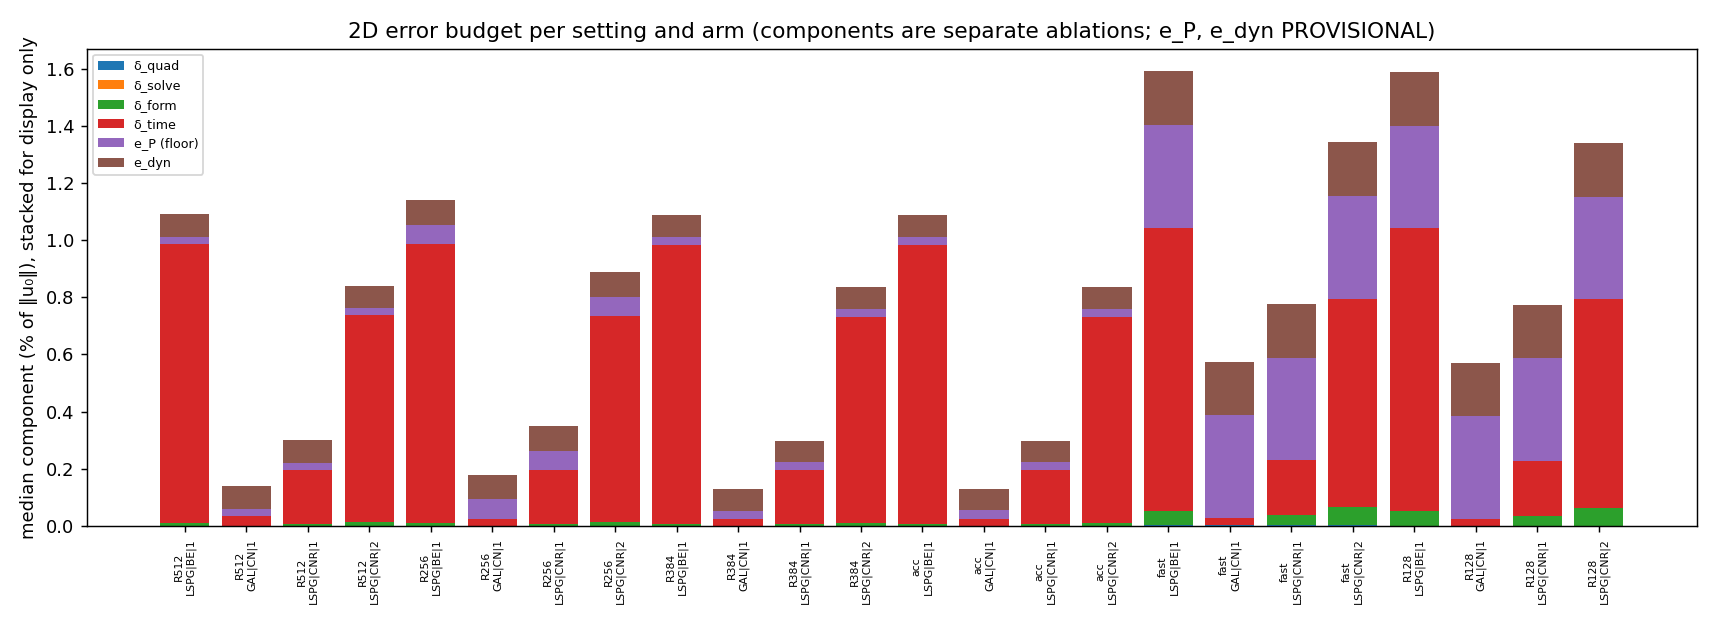
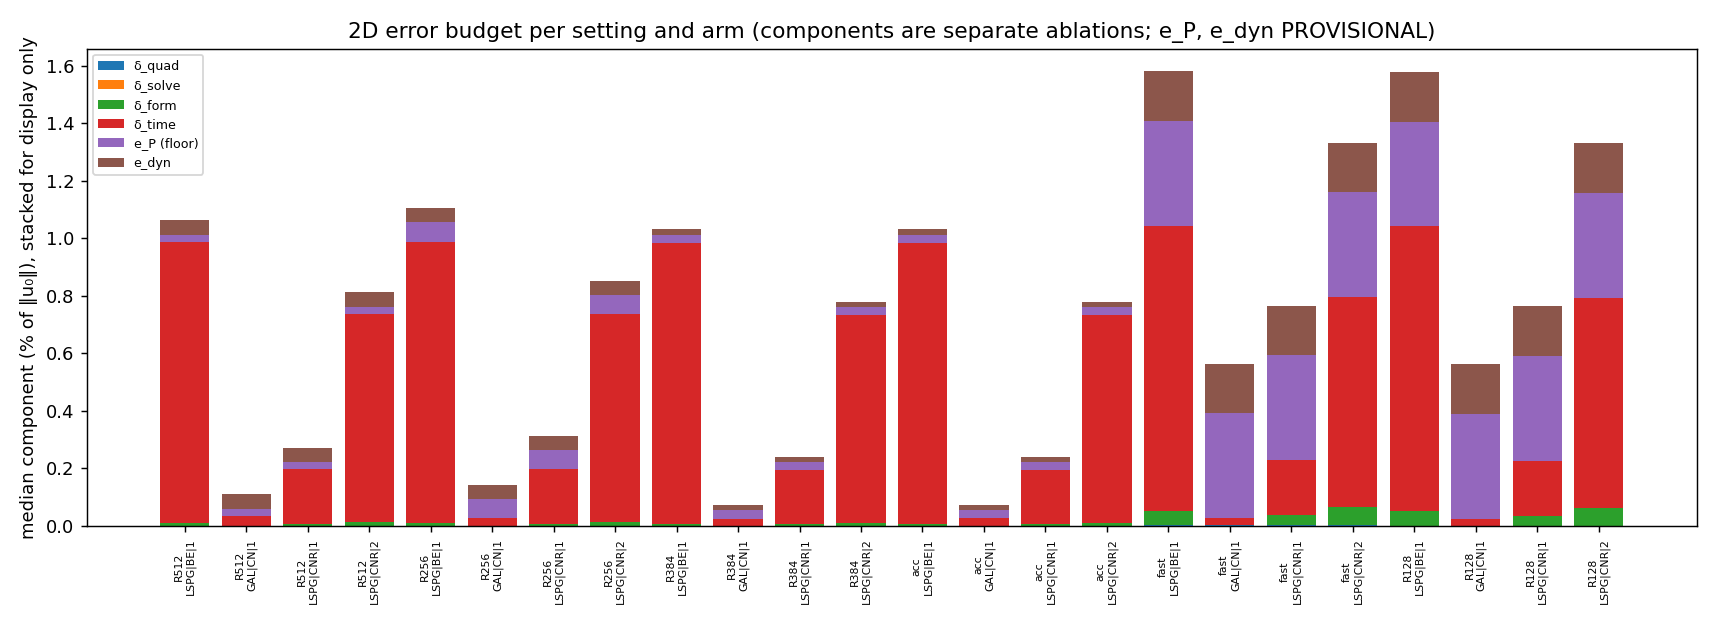
mirror of 8eccb56ff: jcp-combined: report: generated summary, H3 worst-case budget, fallback table, 3D diagnostics

diff --git a/experiments/jcp-combined/make_report.py b/experiments/jcp-combined/make_report.py
@@ -256,6 +256,7 @@ def main():
       'the pre-registered selection was unavailable. Lane `exp/2026-10-13-jcp-combined`, generated by `make_report.py` '
       'from the committed analysis files.', '')
 
+    SUMMARY_AT = len(r.lines)                        # the generated summary is inserted here at the end
     # ------------------------------------------------------------------------------------------------ pipeline
     r('## How the work was done', '',
       '```mermaid', 'flowchart TB',
@@ -577,6 +578,26 @@ def main():
             r('Withheld attributions (non-discriminating control): ' + '; '.join(f'{k}: {v}' for k, v in wh.items()) + '.', '')
         plot_budget(st2, 'budget2d.png', '2D', 'e_P_ST', 'e_dyn_ST')
         r('![2D budget](plots/budget2d.png)', '')
+        # H3 follow-up: the budget of the worst case named by H3, in the fast setting (A1.9: the budget names what dominates)
+        if an is not None and 'fast' in st2:
+            wc = an['hypotheses']['H3']['ST']['worst_case']
+            tg = 'ST'
+            rows = []
+            for ak, A in st2['fast']['arms'].items():
+                pcs = [x for x in A['per_case'] if x['case'] == wc]
+                if not pcs:
+                    continue
+                x = pcs[0]
+                mx = lambda k: (max(v for v in x[k][1:] if v is not None) if isinstance(x.get(k), list) and any(v is not None for v in x[k][1:]) else None)
+                rows.append([armname(ak.replace('|1', '|0.005').replace('|2', '|0.01')) if ak.count('|') == 2 else ak,
+                             pc(mx(f'e_tot_{tg}')), pc(mx(f'e_star_{tg}')), pc(mx(f'e_P_{tg}')), pc(mx(f'e_dyn_{tg}')),
+                             pc(mx('delta_time')), pc(mx('delta_form')), pc(mx('delta_quad'))])
+            if rows:
+                r(f"**The H3 worst case ({wc}, `fast` setting) through the budget** (max over output times; e_tot, e_⋆, e_P, e_dyn "
+                  f"against {'E0 R_ST' if e0b else 'ST (PROVISIONAL)'}): e_⋆ is the error of the ideal model (converged rule, GAL, "
+                  'BDF2 at Δt₀/8, tight), e_P the bank\'s projection floor, e_dyn the ideal model\'s distance to the projected '
+                  'reference.', '')
+                r.table(['arm', 'e_tot', 'e_⋆ (ideal)', 'e_P (floor)', 'e_dyn', 'δ_time', 'δ_form', 'δ_quad'], rows)
     else:
         r('2D budget pending (`c2budA/B/C`).', '')
     fb2 = load(CK / 'fallback2d.json')
@@ -673,6 +694,60 @@ def main():
       '- **dev6, val32, 923801**: development and validation cohorts (selection allowed); test64 / 923901 are replication-only '
       'and were not used.',
       '- **pp, % of ‖u₀‖**: errors are reported relative to the initial-condition norm.', '')
+    # ------------------------------------------------------------------------------------------------ summary
+    S = []
+    if an is not None:
+        H = an['hypotheses']
+        ref = 'E0 R_ST' if an['refs'] == '2d_e0' else 'first-order TX (PROVISIONAL)'
+        g = an_old['selection']['global']['scheme']
+        S.append(f"- **2D scheme.** {g} (selected against the first-order references, frozen). Against {ref}: "
+                 + '; '.join(f"H1 {k} **{v['verdict']}**" for k, v in H['H1'].items())
+                 + f"; H2 (tunability) **{'pass' if H['H2']['a_pass'] and H['H2']['b'] is True else 'fail'}**; H3 at "
+                 f"{H['H3']['ST']['worst_case']}: **{H['H3']['ST']['primary']['verdict']}**; H5 best matched speed-up "
+                 f"{fx(H['H5']['ST']['best_combined'][0])}× vs re-measured C2 `acc` {fx(H['H5']['ST']['best_comparator'][0])}× "
+                 f"(**{H['H5']['ST']['verdict']}**).")
+    if fb2:
+        fails = [s_ for s_ in fb2['settings']]
+        qual = [f"{s_} ({k.replace('_', ' ')} arm → {e['fallback_rule']})" for s_, e in fb2['settings'].items()
+                for k, a in e['arms'].items() if a['qualified']]
+        notq = [f"{s_} ({k.replace('_', ' ')} arm: cost {fx(a['criterion'].get('value'))}× the deployed BE)" if
+                k == 'accurate_equal_cost' else f"{s_} ({k.replace('_', ' ')} arm)"
+                for s_, e in fb2['settings'].items() for k, a in e['arms'].items() if not a['qualified']]
+        S.append(f"- **2D finalist quadrature check.** The selected CN-R arms fail it (δ_quad > τ) at {', '.join(fails)}; "
+                 f"first fallbacks qualified: {', '.join(qual) or 'none'}; not qualified: {', '.join(notq) or 'none'}.")
+    if esc_rows:
+        w = esc_rows.get('W1024', {})
+        over = {s_: max((x['n_over'] for x in v.values()), default=0) for s_, v in esc_rows.items()}
+        S.append('- **3D converged-rule gate (J4).** Cases above the bar at any successive pair (fixed-sweep BE): '
+                 + ', '.join(f'{k} {v}' for k, v in over.items()) + '; worst case at every pair: case '
+                 + ', '.join(sorted({str(x['argmax']) for v in esc_rows.values() for x in v.values()}))
+                 + (('. POST HOC converged rules: ' + ', '.join(f"{k} {v.get('posthoc_converged')}" for k, v in sel_ph['settings'].items()))
+                    if sel_ph else '') + '.')
+    if cnf:
+        S.append('- **3D fixed-sweep CN (K = 2, 2.5 Δt₀)** departs from the verified adaptive solve on a fixed set of cases '
+                 '(the same at every rule), so the pre-registered rule selection was unavailable; the POST HOC selection uses '
+                 'the adaptive CN arm.')
+    if an3 is not None:
+        h4 = an3['hypotheses']['H4']
+        S.append('- **3D fast solver (H4).** H4a (speed at equal accuracy, ratio ≤ 0.6): '
+                 + ', '.join(f"{k} {v.get('H4a', {}).get('verdict', v.get('verdict'))}" for k, v in h4.items())
+                 + '; H4b (accuracy at equal cost): '
+                 + ', '.join(f"{k} {v.get('H4b', {}).get('verdict', '—')}" for k, v in h4.items())
+                 + ('. Read together: the second-order fixed-sweep solver buys accuracy at equal cost, not speed at equal '
+                    'accuracy.' if all(v.get('H4a', {}).get('verdict') == 'fail' and v.get('H4b', {}).get('verdict') == 'pass'
+                                       for v in h4.values()) else '.'))
+    if b2:
+        cnt = {}
+        for b in b2:
+            for s_, S_ in b['settings'].items():
+                for ak, A in S_['arms'].items():
+                    lg = (A.get('largest') or {}).get('ST', {})
+                    if lg:
+                        top = max(lg.items(), key=lambda kv: kv[1])[0]
+                        cnt[top] = cnt.get(top, 0) + 1
+        S.append('- **2D budget: what limits next** (largest component per setting-arm, by number of setting-arms): '
+                 + ', '.join(f'{k} {v}' for k, v in sorted(cnt.items(), key=lambda kv: -kv[1])) + '.')
+    r.lines[SUMMARY_AT:SUMMARY_AT] = ['## Answers in brief (generated)', ''] + S + ['']
     (HERE / 'report.md').write_text('\n'.join(r.lines) + '\n')
     print(HERE / 'report.md', 'pending:', pending)
 

diff --git a/experiments/jcp-combined/report.md b/experiments/jcp-combined/report.md
@@ -1,6 +1,15 @@
 # jcp-combined: second-order stepping with a wide bank and a fast fixed-sweep solver, with an error budget
 
-**Status:** interim; pending: grid3d, bud3d. Every accuracy number is **PROVISIONAL** (scored against first-order references: 2D ST/S/TX, 3D the BE reference at Δt₀/4) and is marked so where it appears. The 3D rule selection is **POST HOC** (DESIGN A10, A11): the pre-registered selection was unavailable. Lane `exp/2026-10-13-jcp-combined`, generated by `make_report.py` from the committed analysis files.
+**Status:** interim; pending: bud3d. Every accuracy number is **PROVISIONAL** (scored against first-order references: 2D ST/S/TX, 3D the BE reference at Δt₀/4) and is marked so where it appears. The 3D rule selection is **POST HOC** (DESIGN A10, A11): the pre-registered selection was unavailable. Lane `exp/2026-10-13-jcp-combined`, generated by `make_report.py` from the committed analysis files.
+
+## Answers in brief (generated)
+
+- **2D scheme.** LSPG-CNR (selected against the first-order references, frozen). Against E0 R_ST: H1 R128->R256 **pass**; H1 R256->R384 **fail**; H1 R384->R512 **does not pay off**; H2 (tunability) **pass**; H3 at val32|19: **cancellation not supported**; H5 best matched speed-up 17.7× vs re-measured C2 `acc` 3.89× (**pass**).
+- **2D finalist quadrature check.** The selected CN-R arms fail it (δ_quad > τ) at fast, acc, R256; first fallbacks qualified: fast (fast equal accuracy arm → fib4181), acc (fast equal accuracy arm → gauss128), R256 (fast equal accuracy arm → gauss128); not qualified: fast (accurate equal cost arm: cost 1.31× the deployed BE), acc (accurate equal cost arm: cost 1.56× the deployed BE), R256 (accurate equal cost arm: cost 1.49× the deployed BE).
+- **3D converged-rule gate (J4).** Cases above the bar at any successive pair (fixed-sweep BE): M2_512 0, W256 0, W512 0, W1024 1, W768 1; worst case at every pair: case 5. POST HOC converged rules: W1024 gl80, W768 gl64, M2_512 gl56, W256 gl56, W512 gl56.
+- **3D fixed-sweep CN (K = 2, 2.5 Δt₀)** departs from the verified adaptive solve on a fixed set of cases (the same at every rule), so the pre-registered rule selection was unavailable; the POST HOC selection uses the adaptive CN arm.
+- **3D fast solver (H4).** H4a (speed at equal accuracy, ratio ≤ 0.6): M2_512 fail, W256 fail, W512 fail, W768 fail, W1024 fail; H4b (accuracy at equal cost): M2_512 pass, W256 pass, W512 pass, W768 pass, W1024 pass. Read together: the second-order fixed-sweep solver buys accuracy at equal cost, not speed at equal accuracy.
+- **2D budget: what limits next** (largest component per setting-arm, by number of setting-arms): delta_time 16, e_P 7, e_dyn 1.
 
 ## How the work was done
 
@@ -157,46 +166,84 @@ W1024 extension (A11): pair statuses recomputed {'gl80|gl96': 'pass'} (agree wit
 
 ### 3D second-order grid (H4, H6) and speed-up
 
-Pending (`c3grid`).
+Rule selection label carried by the grid: **POST HOC (DESIGN A10, A11 extension)**. Comparator: the deployed fixed-sweep BE at Δt₀ (K = 1) on the same bank, R′ and rule. Anchor discrepancy = distance to GAL-BDF2 at Δt₀/8 (time-converged, reference-free; H4 and the selections use only it). Reference errors: PROVISIONAL (first-order reference) - reference-limited (BE at dt0/4).
+
+| setting | rule | anchor-resolved cases | H4a | H4b | fast-equal-accuracy arm | time ratio | median anchor disc. | median ref. error | accurate-equal-cost arm | time ratio | median anchor disc. | median ref. error | BE median anchor disc. | BE median ref. error | cheapest equal-accuracy arm (diagnostic, ratio) |
+|---|---|---|---|---|---|---|---|---|---|---|---|---|---|---|---|
+| M2_512 | gl32 | 63/64 | fail | pass | none | — | — | — | fs / BDF2 / 0.0125 / K1 | 0.874 | 5.97e-03 | 0.767 % | 1.53e-02 | 1.12 % | fs / BDF2 / 0.0125 / K1 (0.874) |
+| W256 | gl24 | 64/64 | fail | pass | none | — | — | — | fs / CN / 0.0125 / K1 | 0.848 | 1.13e-03 | 0.97 % | 1.56e-02 | 1.25 % | fs / CN / 0.0125 / K1 (0.848) |
+| W512 | lat32768 | 64/64 | fail | pass | none | — | — | — | fs / BDF2 / 0.0125 / K1 | 0.863 | 5.96e-03 | 0.764 % | 1.53e-02 | 1.11 % | fs / BDF2 / 0.0125 / K1 (0.863) |
+| W768 | lat32768 | 64/64 | fail | pass | none | — | — | — | fs / CN / 0.016666667 / K2 | 0.981 | 2.04e-03 | 0.924 % | 1.53e-02 | 1.1 % | fs / BDF2 / 0.016666667 / K2 (0.962) |
+| W1024 | lat65536 | 64/64 | fail | pass | none | — | — | — | fs / CN / 0.01 / K1 | 0.992 | 7.41e-04 | 0.806 % | 1.53e-02 | 1.1 % | fs / BDF2 / 0.016666667 / K2 (0.956) |
+
+The registered fast-equal-accuracy arm is H4a's cheapest (Δt ≥ 1.25 Δt₀, anchor discrepancy no worse than the comparator, paired ratio ≤ 0.6); where H4a fails it is "none". The last column is a diagnostic only (A15: an earlier frozen selection used it by mistake and was retracted before any budget job).
+
+H6 (3D dial, descriptive, reference-limited): W256->W512: median change -21.2 %, improved 1, bars met True; W512->W768: median change +21.0 %, improved 0.0469, bars met False; W768->W1024: median change -12.8 %, improved 1, bars met True.
+
+![3D speed-up](plots/speedup3d.png)
 
 ## Error budget (each component its own ablation; none is a remainder)
 
 $e_{\rm tot}=\lVert u_a-u_{\rm ref}\rVert$; floor $e_P=\lVert(I-\Pi_{R'})u_{\rm ref}\rVert$; reduced dynamics $e_{\rm dyn}=\lVert u_\star-\Pi_{R'}u_{\rm ref}\rVert$ (ideal model $\star$ = converged rule, GAL, BDF2, $\Delta t_0/8$, tight); $\delta_{\rm quad},\delta_{\rm solve},\delta_{\rm form},\delta_{\rm time}$ = distance of the arm to the same arm with only the rule / solver tolerance / test space / (scheme, step) changed to the ideal; $D_a=\lVert u_a-u_\star\rVert$ measured directly. All are maxima over the five evolved output times relative to $\lVert u_0\rVert$, medians over the budget population (2D: 38 cases; 3D: first 32). $e_{\rm tot}$, $e_P$, $e_{\rm dyn}$ are PROVISIONAL (first-order references); the $\delta$'s and $D_a$ are reference-free.
 
-### 2D budget (median over 38 cases; e_tot, e_P, e_dyn against ST (PROVISIONAL))
+### 2D budget (median over 38 cases; e_tot, e_P, e_dyn against the E0 R_ST reference)
 
-Label: PROVISIONAL (first-order reference).
+Label: E0 second-order reference: accuracy against an order-verified reference for eligible case-kinds (flagged case-kinds are scored but not ranked); rankings conditional on eps_ref (a Richardson estimate under the asymptotic assumption, not a rigorous bound; the cross-check rule was amended post data, E0 A10); R_S is time-matched to the BE arms at dt0 only, every other S value is an unmatched diagnostic. Not rankable (scored, never ranked): dev6|1|S, val32|21|S, val32|24|S.
 
 | setting | arm | role | δ_quad | δ_solve | δ_form | δ_time | D_a | e_tot | e_P | e_dyn | largest component (cases) | finalist qualified |
 |---|---|---|---|---|---|---|---|---|---|---|---|---|
-| R512 | LSPG / BE / 1 | baseline | 2.24e-07 | 6.09e-07 | 1.03e-04 | 9.77e-03 | 9.77e-03 | 0.907 % | 0.0246 % | 0.08 % | delta_time 38 | — |
-| R512 | GAL / CN / 1 | diagnostic | 3.85e-07 | 8.45e-11 | 0.00e+00 | 3.41e-04 | 3.41e-04 | 0.11 % | 0.0246 % | 0.08 % | e_dyn 36, delta_time 2 | — |
-| R512 | LSPG / CNR / 1 | accurate_equal_cost | 2.53e-07 | 9.58e-07 | 7.92e-05 | 1.89e-03 | 1.89e-03 | 0.137 % | 0.0246 % | 0.08 % | delta_time 24, e_dyn 14 | yes |
-| R512 | LSPG / CNR / 2 | fast_equal_accuracy | 2.39e-07 | 2.61e-06 | 1.29e-04 | 7.23e-03 | 7.23e-03 | 0.657 % | 0.0246 % | 0.08 % | delta_time 36, e_dyn 2 | yes |
-| R256 | LSPG / BE / 1 | baseline | 1.49e-06 | 9.00e-07 | 1.05e-04 | 9.77e-03 | 9.77e-03 | 0.91 % | 0.0667 % | 0.0867 % | delta_time 38 | — |
-| R256 | GAL / CN / 1 | diagnostic | 2.48e-06 | 9.23e-11 | 0.00e+00 | 2.61e-04 | 2.61e-04 | 0.119 % | 0.0667 % | 0.0867 % | e_dyn 30, e_P 8 | — |
-| R256 | LSPG / CNR / 1 | accurate_equal_cost | 1.51e-06 | 1.13e-06 | 7.23e-05 | 1.89e-03 | 1.89e-03 | 0.149 % | 0.0667 % | 0.0867 % | delta_time 26, e_P 5, e_dyn 7 | no |
-| R256 | LSPG / CNR / 2 | fast_equal_accuracy | 1.54e-06 | 3.92e-06 | 1.20e-04 | 7.24e-03 | 7.24e-03 | 0.668 % | 0.0667 % | 0.0867 % | delta_time 37, e_P 1 | no |
-| R384 | LSPG / BE / 1 | baseline | 6.89e-07 | 6.17e-07 | 6.83e-05 | 9.77e-03 | 9.77e-03 | 0.906 % | 0.0281 % | 0.0754 % | delta_time 38 | — |
-| R384 | GAL / CN / 1 | diagnostic | 1.23e-06 | 8.29e-11 | 0.00e+00 | 2.61e-04 | 2.61e-04 | 0.0985 % | 0.0281 % | 0.0754 % | e_dyn 36, e_P 2 | — |
-| R384 | LSPG / CNR / 1 | accurate_equal_cost | 8.12e-07 | 8.51e-07 | 5.32e-05 | 1.89e-03 | 1.89e-03 | 0.135 % | 0.0281 % | 0.0754 % | delta_time 29, e_P 2, e_dyn 7 | yes |
-| R384 | LSPG / CNR / 2 | fast_equal_accuracy | 8.11e-07 | 2.92e-06 | 8.59e-05 | 7.23e-03 | 7.23e-03 | 0.658 % | 0.0281 % | 0.0754 % | delta_time 37, e_dyn 1 | yes |
-| acc | LSPG / BE / 1 | baseline | 1.47e-06 | 6.53e-07 | 6.83e-05 | 9.77e-03 | 9.77e-03 | 0.906 % | 0.0281 % | 0.0754 % | delta_time 38 | — |
-| acc | GAL / CN / 1 | diagnostic | 2.78e-06 | 8.29e-11 | 0.00e+00 | 2.61e-04 | 2.61e-04 | 0.0986 % | 0.0281 % | 0.0754 % | e_dyn 36, e_P 2 | — |
-| acc | LSPG / CNR / 1 | accurate_equal_cost | 1.57e-06 | 8.35e-07 | 5.32e-05 | 1.89e-03 | 1.89e-03 | 0.135 % | 0.0281 % | 0.0754 % | delta_time 29, e_P 2, e_dyn 7 | no |
-| acc | LSPG / CNR / 2 | fast_equal_accuracy | 1.57e-06 | 2.73e-06 | 8.59e-05 | 7.23e-03 | 7.23e-03 | 0.658 % | 0.0281 % | 0.0754 % | delta_time 37, e_dyn 1 | no |
-| fast | LSPG / BE / 1 | baseline | 2.61e-05 | 5.26e-06 | 5.07e-04 | 9.90e-03 | 9.93e-03 | 1.03 % | 0.359 % | 0.187 % | delta_time 30, e_P 5, e_dyn 3 | — |
-| fast | GAL / CN / 1 | diagnostic | 2.85e-05 | 1.10e-10 | 0.00e+00 | 2.52e-04 | 2.69e-04 | 0.423 % | 0.359 % | 0.187 % | e_P 30, e_dyn 8 | — |
-| fast | LSPG / CNR / 1 | accurate_equal_cost | 2.74e-05 | 5.00e-06 | 3.51e-04 | 1.92e-03 | 1.94e-03 | 0.42 % | 0.359 % | 0.187 % | e_P 24, delta_time 9, e_dyn 5 | no |
-| fast | LSPG / CNR / 2 | fast_equal_accuracy | 2.42e-05 | 1.10e-05 | 6.28e-04 | 7.29e-03 | 7.31e-03 | 0.727 % | 0.359 % | 0.187 % | delta_time 26, e_P 9, e_dyn 3 | no |
-| R128 | LSPG / BE / 1 | baseline | 1.60e-06 | 5.11e-06 | 5.07e-04 | 9.90e-03 | 9.93e-03 | 1.04 % | 0.359 % | 0.187 % | delta_time 30, e_P 5, e_dyn 3 | — |
-| R128 | GAL / CN / 1 | diagnostic | 1.95e-06 | 1.09e-10 | 0.00e+00 | 2.52e-04 | 2.52e-04 | 0.422 % | 0.359 % | 0.187 % | e_P 30, e_dyn 8 | — |
-| R128 | LSPG / CNR / 1 | accurate_equal_cost | 1.77e-06 | 4.94e-06 | 3.52e-04 | 1.92e-03 | 1.96e-03 | 0.42 % | 0.359 % | 0.187 % | e_P 24, delta_time 9, e_dyn 5 | yes |
-| R128 | LSPG / CNR / 2 | fast_equal_accuracy | 1.55e-06 | 1.09e-05 | 6.28e-04 | 7.29e-03 | 7.30e-03 | 0.727 % | 0.359 % | 0.187 % | delta_time 26, e_P 9, e_dyn 3 | yes |
+| R512 | LSPG / BE / 1 | baseline | 2.24e-07 | 6.09e-07 | 1.03e-04 | 9.77e-03 | 9.77e-03 | 0.979 % | 0.0251 % | 0.0505 % | delta_time 38 | — |
+| R512 | GAL / CN / 1 | diagnostic | 3.85e-07 | 8.45e-11 | 0.00e+00 | 3.41e-04 | 3.41e-04 | 0.0753 % | 0.0251 % | 0.0505 % | e_dyn 29, delta_time 9 | — |
+| R512 | LSPG / CNR / 1 | accurate_equal_cost | 2.53e-07 | 9.58e-07 | 7.92e-05 | 1.89e-03 | 1.89e-03 | 0.199 % | 0.0251 % | 0.0505 % | delta_time 26, e_dyn 12 | yes |
+| R512 | LSPG / CNR / 2 | fast_equal_accuracy | 2.39e-07 | 2.61e-06 | 1.29e-04 | 7.23e-03 | 7.23e-03 | 0.726 % | 0.0251 % | 0.0505 % | delta_time 36, e_dyn 2 | yes |
+| R256 | LSPG / BE / 1 | baseline | 1.49e-06 | 9.00e-07 | 1.05e-04 | 9.77e-03 | 9.77e-03 | 0.983 % | 0.067 % | 0.0498 % | delta_time 38 | — |
+| R256 | GAL / CN / 1 | diagnostic | 2.48e-06 | 9.23e-11 | 0.00e+00 | 2.61e-04 | 2.61e-04 | 0.0981 % | 0.067 % | 0.0498 % | e_dyn 10, delta_time 7, e_P 21 | — |
+| R256 | LSPG / CNR / 1 | accurate_equal_cost | 1.51e-06 | 1.13e-06 | 7.23e-05 | 1.89e-03 | 1.89e-03 | 0.209 % | 0.067 % | 0.0498 % | delta_time 27, e_P 6, e_dyn 5 | no |
+| R256 | LSPG / CNR / 2 | fast_equal_accuracy | 1.54e-06 | 3.92e-06 | 1.20e-04 | 7.24e-03 | 7.24e-03 | 0.734 % | 0.067 % | 0.0498 % | delta_time 37, e_P 1 | no |
+| R384 | LSPG / BE / 1 | baseline | 6.89e-07 | 6.17e-07 | 6.83e-05 | 9.77e-03 | 9.77e-03 | 0.978 % | 0.0282 % | 0.0189 % | delta_time 38 | — |
+| R384 | GAL / CN / 1 | diagnostic | 1.23e-06 | 8.29e-11 | 0.00e+00 | 2.61e-04 | 2.61e-04 | 0.0495 % | 0.0282 % | 0.0189 % | e_dyn 11, delta_time 12, e_P 15 | — |
+| R384 | LSPG / CNR / 1 | accurate_equal_cost | 8.12e-07 | 8.51e-07 | 5.32e-05 | 1.89e-03 | 1.89e-03 | 0.198 % | 0.0282 % | 0.0189 % | delta_time 30, e_P 3, e_dyn 5 | yes |
+| R384 | LSPG / CNR / 2 | fast_equal_accuracy | 8.11e-07 | 2.92e-06 | 8.59e-05 | 7.23e-03 | 7.23e-03 | 0.726 % | 0.0282 % | 0.0189 % | delta_time 37, e_dyn 1 | yes |
+| acc | LSPG / BE / 1 | baseline | 1.47e-06 | 6.53e-07 | 6.83e-05 | 9.77e-03 | 9.77e-03 | 0.978 % | 0.0282 % | 0.0189 % | delta_time 38 | — |
+| acc | GAL / CN / 1 | diagnostic | 2.78e-06 | 8.29e-11 | 0.00e+00 | 2.61e-04 | 2.61e-04 | 0.0495 % | 0.0282 % | 0.0189 % | e_dyn 11, delta_time 12, e_P 15 | — |
+| acc | LSPG / CNR / 1 | accurate_equal_cost | 1.57e-06 | 8.35e-07 | 5.32e-05 | 1.89e-03 | 1.89e-03 | 0.198 % | 0.0282 % | 0.0189 % | delta_time 30, e_P 3, e_dyn 5 | no |
+| acc | LSPG / CNR / 2 | fast_equal_accuracy | 1.57e-06 | 2.73e-06 | 8.59e-05 | 7.23e-03 | 7.23e-03 | 0.726 % | 0.0282 % | 0.0189 % | delta_time 37, e_dyn 1 | no |
+| fast | LSPG / BE / 1 | baseline | 2.61e-05 | 5.26e-06 | 5.07e-04 | 9.90e-03 | 9.93e-03 | 1.09 % | 0.364 % | 0.172 % | delta_time 30, e_P 5, e_dyn 3 | — |
+| fast | GAL / CN / 1 | diagnostic | 2.85e-05 | 1.10e-10 | 0.00e+00 | 2.52e-04 | 2.69e-04 | 0.417 % | 0.364 % | 0.172 % | e_P 35, e_dyn 3 | — |
+| fast | LSPG / CNR / 1 | accurate_equal_cost | 2.74e-05 | 5.00e-06 | 3.51e-04 | 1.92e-03 | 1.94e-03 | 0.45 % | 0.364 % | 0.172 % | e_P 25, delta_time 10, e_dyn 3 | no |
+| fast | LSPG / CNR / 2 | fast_equal_accuracy | 2.42e-05 | 1.10e-05 | 6.28e-04 | 7.29e-03 | 7.31e-03 | 0.792 % | 0.364 % | 0.172 % | delta_time 25, e_P 10, e_dyn 3 | no |
+| R128 | LSPG / BE / 1 | baseline | 1.60e-06 | 5.11e-06 | 5.07e-04 | 9.90e-03 | 9.93e-03 | 1.1 % | 0.364 % | 0.172 % | delta_time 30, e_P 5, e_dyn 3 | — |
+| R128 | GAL / CN / 1 | diagnostic | 1.95e-06 | 1.09e-10 | 0.00e+00 | 2.52e-04 | 2.52e-04 | 0.417 % | 0.364 % | 0.172 % | e_P 35, e_dyn 3 | — |
+| R128 | LSPG / CNR / 1 | accurate_equal_cost | 1.77e-06 | 4.94e-06 | 3.52e-04 | 1.92e-03 | 1.96e-03 | 0.45 % | 0.364 % | 0.172 % | e_P 25, delta_time 10, e_dyn 3 | yes |
+| R128 | LSPG / CNR / 2 | fast_equal_accuracy | 1.55e-06 | 1.09e-05 | 6.28e-04 | 7.29e-03 | 7.30e-03 | 0.792 % | 0.364 % | 0.172 % | delta_time 25, e_P 10, e_dyn 3 | yes |
 
-Budget gates: c2budA: B0 pass, B0_fixtures pass, B0_real_mismatch pass, B1 pass, reproduction pass, inventory pass, grid_reproduction pass; c2budB: B0 pass, B0_fixtures pass, B0_real_mismatch pass, B1 pass, reproduction pass, inventory pass, grid_reproduction pass; c2budC: B0 pass, B0_fixtures pass, B0_real_mismatch pass, B1 pass, reproduction pass, inventory pass, grid_reproduction pass.
+Budget gates: c2budA: B0 pass, B0_fixtures pass, B0_real_mismatch pass, B1 pass, reproduction not applicable (new reference), inventory pass, grid_reproduction pass; c2budB: B0 pass, B0_fixtures pass, B0_real_mismatch pass, B1 pass, reproduction not applicable (new reference), inventory pass, grid_reproduction pass; c2budC: B0 pass, B0_fixtures pass, B0_real_mismatch pass, B1 pass, reproduction not applicable (new reference), inventory pass, grid_reproduction pass.
 
 ![2D budget](plots/budget2d.png)
+
+**The H3 worst case (val32|19, `fast` setting) through the budget** (max over output times; e_tot, e_⋆, e_P, e_dyn against E0 R_ST): e_⋆ is the error of the ideal model (converged rule, GAL, BDF2 at Δt₀/8, tight), e_P the bank's projection floor, e_dyn the ideal model's distance to the projected reference.
+
+| arm | e_tot | e_⋆ (ideal) | e_P (floor) | e_dyn | δ_time | δ_form | δ_quad |
+|---|---|---|---|---|---|---|---|
+| LSPG-BE at 1Δt₀ | 4.84 % | 5.64 % | 4.15 % | 3.87 % | 3.66 % | 0.752 % | 0.0129 % |
+| GAL-CN at 1Δt₀ | 5.65 % | 5.64 % | 4.15 % | 3.87 % | 0.121 % | 0 % | 0.0227 % |
+| LSPG-CN-R at 1Δt₀ | 5.2 % | 5.64 % | 4.15 % | 3.87 % | 0.651 % | 0.733 % | 0.0201 % |
+| LSPG-CN-R at 2Δt₀ | 4.95 % | 5.64 % | 4.15 % | 3.87 % | 1.38 % | 1.19 % | 0.0182 % |
+
+### 2D finalist failures and their fallbacks (A14, pre-registered conditional step)
+
+The selected arms whose deployed rule fails the finalist quadrature check (δ_quad ≤ τ on every case) keep their selection verdict, labelled "rule inadequate for this arm"; their first fallback rule is qualified separately (accuracy, solver, quadrature, timing, and the arm's original criterion against the original deployed BE). Accuracy in this table: first-order (the selection reference, PROVISIONAL) and E0 R_ST beside it.
+
+| setting | arm | step | fallback (rule) | finalist pass | worst δ_quad | median TX (old) | median E0 R_ST | cost vs original BE | original criterion met | fallback qualified |
+|---|---|---|---|---|---|---|---|---|---|---|
+| fast | accurate equal cost | LSPG-CN-R at 1Δt₀ | R128 (fib4181) | yes | 1.01e-04 | 0.444 % | 0.45 % | 1.31 | no | **no** |
+| fast | fast equal accuracy | LSPG-CN-R at 2Δt₀ | R128 (fib4181) | yes | 1.30e-04 | 0.795 % | 0.792 % | 0.762 | yes | **yes** |
+| acc | accurate equal cost | LSPG-CN-R at 1Δt₀ | R384 (gauss128) | yes | 1.10e-04 | 0.195 % | 0.198 % | 1.56 | no | **no** |
+| acc | fast equal accuracy | LSPG-CN-R at 2Δt₀ | R384 (gauss128) | yes | 1.49e-04 | 0.715 % | 0.726 % | 0.864 | yes | **yes** |
+| R256 | accurate equal cost | LSPG-CN-R at 1Δt₀ | R256fb (gauss128) | yes | 7.38e-05 | 0.21 % | 0.209 % | 1.49 | no | **no** |
+| R256 | fast equal accuracy | LSPG-CN-R at 2Δt₀ | R256fb (gauss128) | yes | 8.29e-05 | 0.725 % | 0.734 % | 0.816 | yes | **yes** |
+
+Cost method: c2fbgrid common panel (baseline: deployed R256 BE), median paired ratio; c2grid common panel: ratio of the two median paired ratios (not a directly paired median).
 
 3D budget pending (`c3bud`).
 
@@ -228,8 +275,10 @@ Budget gates: c2budA: B0 pass, B0_fixtures pass, B0_real_mismatch pass, B1 pass,
 | c2budB | 5218149 | a100-80G | 0bc851461 | 2D error budget (R384, acc) | complete, collected |
 | c3grid | 5219449 | h200 | 1cf409c9a | 3D second-order grid + timing, 5 settings, POST HOC rules (A10/A11) | complete, collected |
 | c2budC | 5225286 | a100-80G | 29dc2743a | 2D error budget (fast, R128); resubmission after the cancelled 5218166 | complete, collected |
-| c2fbgrid | 5228777 | a100-80G | 91f723746 | A14 fallback grid: R256 gauss96 vs gauss128 (accuracy + timing) |  |
-| c2fbbud | 5228780 | a100-80G | 91f723746 | A14 fallback budget: R256fb (gauss128) |  |
+| c2fbgrid | 5228777 | a100-80G | 91f723746 | A14 fallback grid: R256 gauss96 vs gauss128 (accuracy + timing) | complete, collected |
+| c2fbbud | 5228780 | a100-80G | 91f723746 | A14 fallback budget: R256fb (gauss128) | complete, collected |
+| c3budW1024 | 5231969 | h200 | 51730ce18 | 3D error budget, W1024 (r_inf gl80, finer gl96) |  |
+| c3budA | 5231973 | h200 | 51730ce18 | 3D error budget, M2_512/W256/W512/W768 |  |
 
 | failed attempt | Slurm id | note |
 |---|---|---|
@@ -276,6 +325,9 @@ Chronological; the opening statement of each audit (its verdict line). Every WRO
 | `audits/codex-a13-1.md` | Overall: NOT READY for production E0 scoring. The registry and core scoring conventions check out, but the budget paths bypass promised safeguards, and the frozen 3D solver selection is missing. |
 | `audits/codex-a13-2.md` | c2grid (2D): READY for production E0 scoring. |
 | `audits/codex-a14-1.md` | JOB GATE: SUBMIT `c2fbgrid`; SUBMIT `c2fbbud`. The configs and resource certificates support running both jobs. This does not qualify any fallback in advance. A14’s qualification wording needs clarification before report… |
+| `audits/codex-results3d-1.md` | JOB GATE: HOLD both `c3budA` and `c3budW1024`. Their resource certificates pass, but the frozen fast-equal-accuracy selection violates the registered selection rule. |
+| `audits/codex-results2d-e0-1.md` | Overall: NEEDS-RESTATEMENT for provenance/reporting; the audited numerical results are CORRECT. No files were created, modified, or appended. |
+| `audits/codex-results3d-2.md` | JOB GATE: SUBMIT `c3budW1024` and `c3budA`. The round-1 selection blocker is resolved. |
 
 ## Glossary
 
